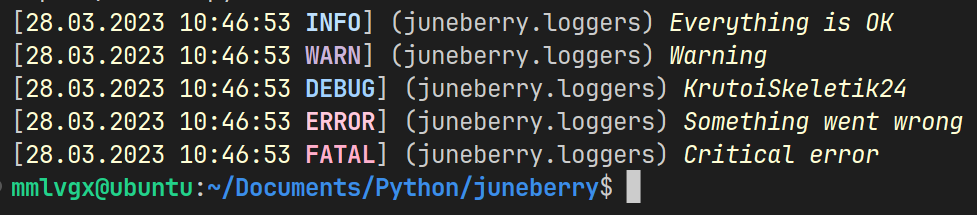
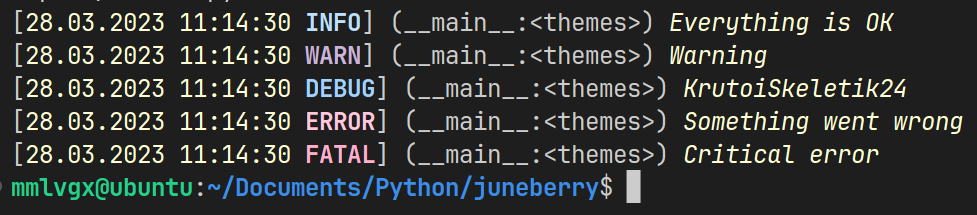
[🐛] Update `assets/themes.png`

diff --git a/src/juneberry/loggers.py b/src/juneberry/loggers.py
@@ -69,7 +69,7 @@ class Logger:
         module = getmodule(frame[0])
         name = getmodulename(module.__file__)
 
-        stdout.write(f'{RESET}[{now} {level}] ({module}:<{name}>) {message}\n')
+        stdout.write(f'{RESET}[{now} {level}] ({module.__name__}:<{name}>) {message}\n')
 
     def warn(self, message: str) -> None:
         '''
@@ -92,7 +92,7 @@ class Logger:
         module = getmodule(frame[0])
         name = getmodulename(module.__file__)
 
-        stdout.write(f'{RESET}[{now} {level}] ({module}:<{name}>) {message}\n')
+        stdout.write(f'{RESET}[{now} {level}] ({module.__name__}:<{name}>) {message}\n')
 
     def debug(self, message: str) -> None:
         '''
@@ -114,7 +114,7 @@ class Logger:
         module = getmodule(frame[0])
         name = getmodulename(module.__file__)
 
-        stdout.write(f'{RESET}[{now} {level}] ({module}:<{name}>) {message}\n')
+        stdout.write(f'{RESET}[{now} {level}] ({module.__name__}:<{name}>) {message}\n')
 
     def error(self, message: str) -> None:
         '''
@@ -136,7 +136,7 @@ class Logger:
         module = getmodule(frame[0])
         name = getmodulename(module.__file__)
 
-        stdout.write(f'{RESET}[{now} {level}] ({module}:<{name}>) {message}\n')
+        stdout.write(f'{RESET}[{now} {level}] ({module.__name__}:<{name}>) {message}\n')
 
     def fatal(self, message: str) -> None:
         '''
@@ -158,4 +158,4 @@ class Logger:
         module = getmodule(frame[0])
         name = getmodulename(module.__file__)
 
-        stdout.write(f'{RESET}[{now} {level}] ({module}:<{name}>) {message}\n')
+        stdout.write(f'{RESET}[{now} {level}] ({module.__name__}:<{name}>) {message}\n')
